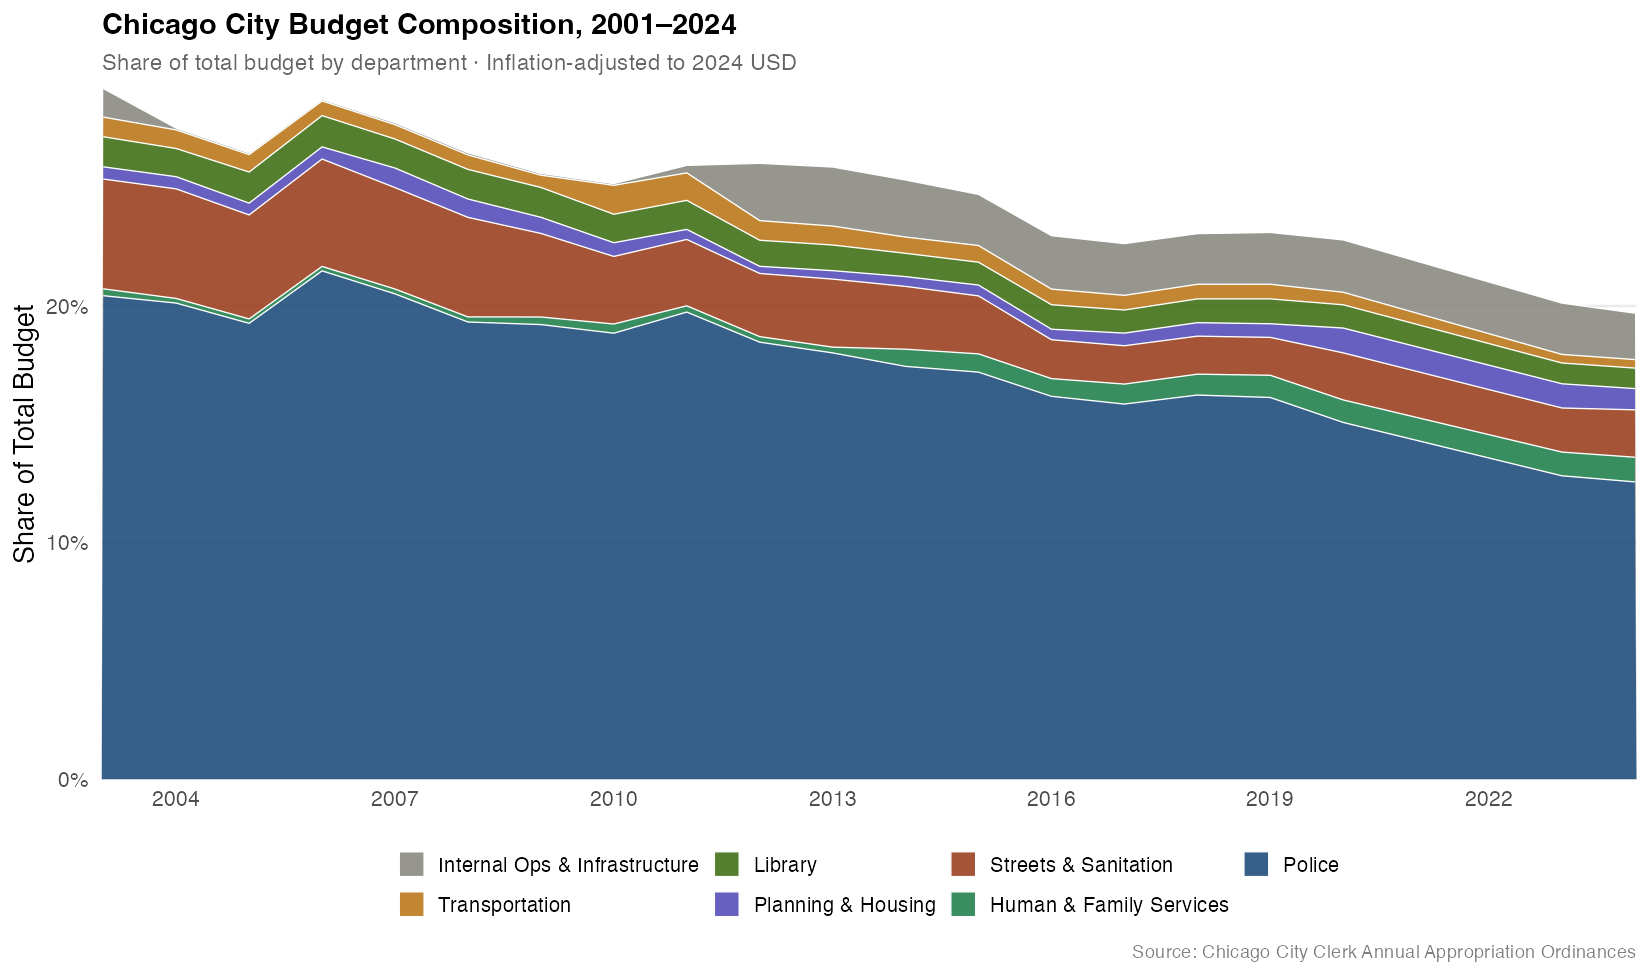
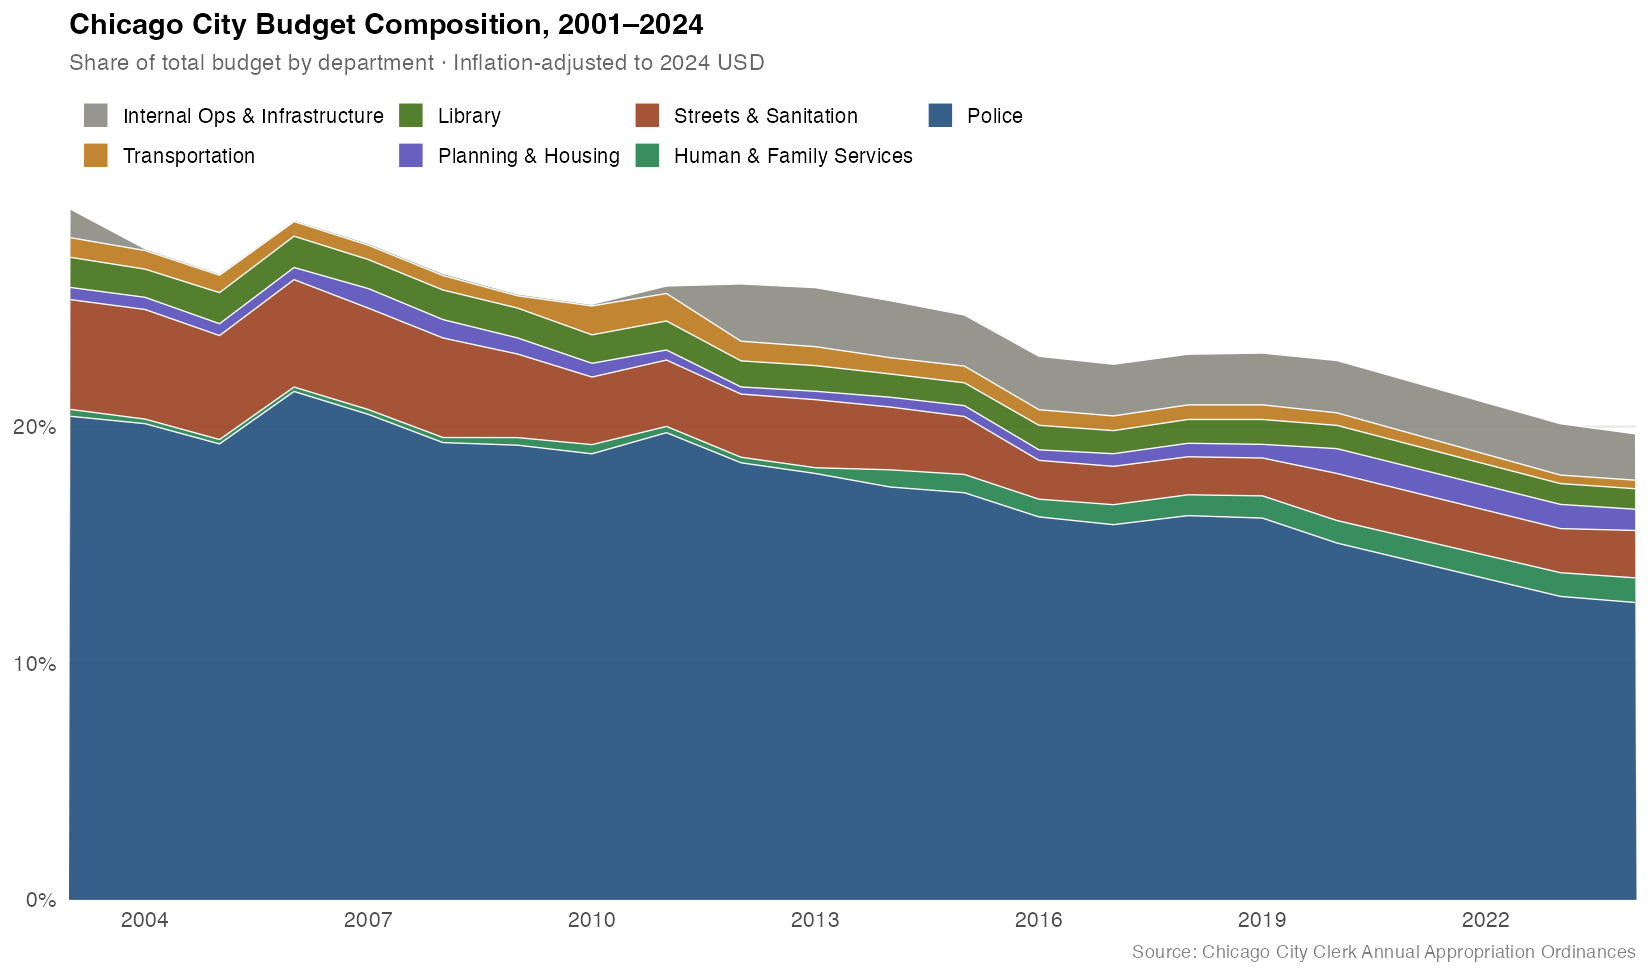
Clean up chart labels, move legends to top, add COVID annotation

diff --git a/assets/per_capita_interactive.html b/assets/per_capita_interactive.html
@@ -1892,9 +1892,9 @@ display: none;
 </head>
 <body style="background-color: white;">
 <div id="htmlwidget_container">
-  <div class="plotly html-widget html-fill-item" id="htmlwidget-2aec6505d727d4c65946" style="width:100%;height:400px;"></div>
+  <div class="plotly html-widget html-fill-item" id="htmlwidget-065df483d957e599c200" style="width:100%;height:400px;"></div>
 </div>
-<script type="application/json" data-for="htmlwidget-2aec6505d727d4c65946">{"x":{"visdat":{"15974c55eb1d":["function () ","plotlyVisDat"],"15971cbee412":["function () ","data"],"1597386f687c":["function () ","data"],"15971a34c1d6":["function () ","data"],"15977da1d60a":["function () ","data"],"1597beb6af6":["function () ","data"],"1597cbb4297":["function () ","data"],"15975a10ce08":["function () ","data"]},"cur_data":"15975a10ce08","attrs":{"15971cbee412":{"alpha_stroke":1,"sizes":[10,100],"spans":[1,20],"x":{},"y":{},"type":"scatter","mode":"lines+markers","name":"Police","text":{},"hoverinfo":"text","line":{"color":"#1a4a7a","width":2.2000000000000002},"marker":{"color":"#1a4a7a","size":5},"legendgroup":"Police","inherit":true},"1597386f687c":{"alpha_stroke":1,"sizes":[10,100],"spans":[1,20],"x":{},"y":{},"type":"scatter","mode":"lines+markers","name":"Streets & Sanitation","text":{},"hoverinfo":"text","line":{"color":"#993c1d","width":2.2000000000000002},"marker":{"color":"#993c1d","size":5},"legendgroup":"Streets & Sanitation","inherit":true},"15971a34c1d6":{"alpha_stroke":1,"sizes":[10,100],"spans":[1,20],"x":{},"y":{},"type":"scatter","mode":"lines+markers","name":"Internal Ops & Infrastructure","text":{},"hoverinfo":"text","line":{"color":"#888780","width":2.2000000000000002},"marker":{"color":"#888780","size":5},"legendgroup":"Internal Ops & Infrastructure","inherit":true},"15977da1d60a":{"alpha_stroke":1,"sizes":[10,100],"spans":[1,20],"x":{},"y":{},"type":"scatter","mode":"lines+markers","name":"Human & Family Services","text":{},"hoverinfo":"text","line":{"color":"#1e7e4a","width":2.2000000000000002},"marker":{"color":"#1e7e4a","size":5},"legendgroup":"Human & Family Services","inherit":true},"1597beb6af6":{"alpha_stroke":1,"sizes":[10,100],"spans":[1,20],"x":{},"y":{},"type":"scatter","mode":"lines+markers","name":"Transportation","text":{},"hoverinfo":"text","line":{"color":"#ba7517","width":2.2000000000000002},"marker":{"color":"#ba7517","size":5},"legendgroup":"Transportation","inherit":true},"1597cbb4297":{"alpha_stroke":1,"sizes":[10,100],"spans":[1,20],"x":{},"y":{},"type":"scatter","mode":"lines+markers","name":"Planning & Housing","text":{},"hoverinfo":"text","line":{"color":"#534ab7","width":2.2000000000000002},"marker":{"color":"#534ab7","size":5},"legendgroup":"Planning & Housing","inherit":true},"15975a10ce08":{"alpha_stroke":1,"sizes":[10,100],"spans":[1,20],"x":{},"y":{},"type":"scatter","mode":"lines+markers","name":"Library","text":{},"hoverinfo":"text","line":{"color":"#3b6d11","width":2.2000000000000002},"marker":{"color":"#3b6d11","size":5},"legendgroup":"Library","inherit":true}},"layout":{"margin":{"b":100,"l":70,"t":90,"r":20},"title":{"text":"<b>Per Capita City Spending by Department, 2001–2024<\/b><br><i style='font-size:13px;color:#5a6a7a'>Inflation-adjusted to 2024 USD · Click a department to isolate it; double-click to reset<\/i>","font":{"family":"Arial","size":16,"color":"#000000"},"x":0,"xanchor":"left","pad":{"l":10}},"xaxis":{"domain":[0,1],"automargin":true,"title":"","tickvals":[2001,2004,2007,2010,2013,2016,2019,2022],"tickformat":"d","tickfont":{"family":"Arial","size":12,"color":"#000000"},"showgrid":false,"zeroline":false,"linecolor":"#d0dce8","linewidth":1},"yaxis":{"domain":[0,1],"automargin":true,"title":{"text":"Per capita spending (2024 USD)","font":{"family":"Arial","size":12,"color":"#000000"}},"tickprefix":"$","tickformat":",","tickfont":{"family":"Arial","size":12,"color":"#000000"},"showgrid":true,"gridcolor":"#e8e8e8","gridwidth":1,"zeroline":false},"legend":{"orientation":"h","x":0,"xanchor":"left","y":-0.17999999999999999,"font":{"family":"Arial","size":12,"color":"#000000"},"bgcolor":"rgba(0,0,0,0)","borderwidth":0},"hovermode":"closest","plot_bgcolor":"#ffffff","paper_bgcolor":"#ffffff","annotations":[{"text":"Source: Chicago City Clerk Annual Appropriation Ordinances","showarrow":false,"xref":"paper","yref":"paper","x":1,"y":-0.28000000000000003,"xanchor":"right","font":{"family":"Arial","size":11,"color":"#5a6a7a"}}],"showlegend":true},"source":"A","config":{"modeBarButtonsToAdd":["hoverclosest","hovercompare"],"showSendToCloud":false,"displayModeBar":true,"modeBarButtonsToRemove":["select2d","lasso2d","autoScale2d","hoverClosestCartesian","hoverCompareCartesian"],"displaylogo":false,"responsive":true},"data":[{"x":[2003,2004,2005,2006,2007,2008,2009,2010,2011,2012,2013,2014,2015,2016,2017,2018,2019,2020,2023,2024],"y":[437.7086416240013,434.30655854733499,424.51667996829877,462.45773054158451,464.11140771766128,442.51194620313157,427.28249164533122,453.58327142381273,479.00351295452776,455.42428404726019,459.85726512796691,474.46168445790801,505.12256318193783,511.84037723223776,528.16534889867773,558.73606091379565,574.31003849724516,595.6617124018893,642.13530914776538,652.83774987295703],"type":"scatter","mode":"lines+markers","name":"Police","text":["<b>Police<\/b><br>Year: 2003<br>Per capita: $438","<b>Police<\/b><br>Year: 2004<br>Per capita: $434","<b>Police<\/b><br>Year: 2005<br>Per capita: $425","<b>Police<\/b><br>Year: 2006<br>Per capita: $462","<b>Police<\/b><br>Year: 2007<br>Per capita: $464","<b>Police<\/b><br>Year: 2008<br>Per capita: $443","<b>Police<\/b><br>Year: 2009<br>Per capita: $427","<b>Police<\/b><br>Year: 2010<br>Per capita: $454","<b>Police<\/b><br>Year: 2011<br>Per capita: $479","<b>Police<\/b><br>Year: 2012<br>Per capita: $455","<b>Police<\/b><br>Year: 2013<br>Per capita: $460","<b>Police<\/b><br>Year: 2014<br>Per capita: $474","<b>Police<\/b><br>Year: 2015<br>Per capita: $505","<b>Police<\/b><br>Year: 2016<br>Per capita: $512","<b>Police<\/b><br>Year: 2017<br>Per capita: $528","<b>Police<\/b><br>Year: 2018<br>Per capita: $559","<b>Police<\/b><br>Year: 2019<br>Per capita: $574","<b>Police<\/b><br>Year: 2020<br>Per capita: $596","<b>Police<\/b><br>Year: 2023<br>Per capita: $642","<b>Police<\/b><br>Year: 2024<br>Per capita: $653"],"hoverinfo":["text","text","text","text","text","text","text","text","text","text","text","text","text","text","text","text","text","text","text","text"],"line":{"color":"#1a4a7a","width":2.2000000000000002},"marker":{"color":"#1a4a7a","size":5,"line":{"color":"rgba(31,119,180,1)"}},"legendgroup":"Police","error_y":{"color":"rgba(31,119,180,1)"},"error_x":{"color":"rgba(31,119,180,1)"},"xaxis":"x","yaxis":"y","frame":null},{"x":[2003,2004,2005,2006,2007,2008,2009,2010,2011,2012,2013,2014,2015,2016,2017,2018,2019,2020,2023,2024],"y":[99.360131299941813,99.942398451245793,96.812035549994107,97.700044637313681,96.97186195385251,96.327555456719594,78.548994527981392,68.722825919814909,68.049191706472143,65.802773934708583,73.37308264819373,72.158817179062495,71.917289333503888,51.92923087729416,53.96640924850044,55.286130611074405,56.974216385624281,78.548750941236264,93.28986201300529,104.10002537105163],"type":"scatter","mode":"lines+markers","name":"Streets & Sanitation","text":["<b>Streets & Sanitation<\/b><br>Year: 2003<br>Per capita: $99","<b>Streets & Sanitation<\/b><br>Year: 2004<br>Per capita: $100","<b>Streets & Sanitation<\/b><br>Year: 2005<br>Per capita: $97","<b>Streets & Sanitation<\/b><br>Year: 2006<br>Per capita: $98","<b>Streets & Sanitation<\/b><br>Year: 2007<br>Per capita: $97","<b>Streets & Sanitation<\/b><br>Year: 2008<br>Per capita: $96","<b>Streets & Sanitation<\/b><br>Year: 2009<br>Per capita: $79","<b>Streets & Sanitation<\/b><br>Year: 2010<br>Per capita: $69","<b>Streets & Sanitation<\/b><br>Year: 2011<br>Per capita: $68","<b>Streets & Sanitation<\/b><br>Year: 2012<br>Per capita: $66","<b>Streets & Sanitation<\/b><br>Year: 2013<br>Per capita: $73","<b>Streets & Sanitation<\/b><br>Year: 2014<br>Per capita: $72","<b>Streets & Sanitation<\/b><br>Year: 2015<br>Per capita: $72","<b>Streets & Sanitation<\/b><br>Year: 2016<br>Per capita: $52","<b>Streets & Sanitation<\/b><br>Year: 2017<br>Per capita: $54","<b>Streets & Sanitation<\/b><br>Year: 2018<br>Per capita: $55","<b>Streets & Sanitation<\/b><br>Year: 2019<br>Per capita: $57","<b>Streets & Sanitation<\/b><br>Year: 2020<br>Per capita: $79","<b>Streets & Sanitation<\/b><br>Year: 2023<br>Per capita: $93","<b>Streets & Sanitation<\/b><br>Year: 2024<br>Per capita: $104"],"hoverinfo":["text","text","text","text","text","text","text","text","text","text","text","text","text","text","text","text","text","text","text","text"],"line":{"color":"#993c1d","width":2.2000000000000002},"marker":{"color":"#993c1d","size":5,"line":{"color":"rgba(255,127,14,1)"}},"legendgroup":"Streets & Sanitation","error_y":{"color":"rgba(255,127,14,1)"},"error_x":{"color":"rgba(255,127,14,1)"},"xaxis":"x","yaxis":"y","frame":null},{"x":[2000,2001,2002,2003,2004,2005,2006,2007,2008,2009,2010,2011,2012,2013,2014,2015,2016,2017,2018,2019,2020,2021,2022,2023,2024],"y":[0,0,0,25.88772121587261,1.6134922604101809,1.5629119828912674,1.4188064177568556,1.8294405208213129,2.0574825666770598,1.7158868858888714,1.7034138113872266,7.6988134635921606,59.712907997660274,63.680784349208416,65.556185757676943,63.427383961219689,71.427808123210468,72.798671580901924,73.680502648200957,77.938221405745225,87.370684331565684,0,0,108.63503066669568,101.87744055630159],"type":"scatter","mode":"lines+markers","name":"Internal Ops & Infrastructure","text":["<b>Internal Ops & Infrastructure<\/b><br>Year: 2000<br>Per capita: $0","<b>Internal Ops & Infrastructure<\/b><br>Year: 2001<br>Per capita: $0","<b>Internal Ops & Infrastructure<\/b><br>Year: 2002<br>Per capita: $0","<b>Internal Ops & Infrastructure<\/b><br>Year: 2003<br>Per capita: $26","<b>Internal Ops & Infrastructure<\/b><br>Year: 2004<br>Per capita: $2","<b>Internal Ops & Infrastructure<\/b><br>Year: 2005<br>Per capita: $2","<b>Internal Ops & Infrastructure<\/b><br>Year: 2006<br>Per capita: $1","<b>Internal Ops & Infrastructure<\/b><br>Year: 2007<br>Per capita: $2","<b>Internal Ops & Infrastructure<\/b><br>Year: 2008<br>Per capita: $2","<b>Internal Ops & Infrastructure<\/b><br>Year: 2009<br>Per capita: $2","<b>Internal Ops & Infrastructure<\/b><br>Year: 2010<br>Per capita: $2","<b>Internal Ops & Infrastructure<\/b><br>Year: 2011<br>Per capita: $8","<b>Internal Ops & Infrastructure<\/b><br>Year: 2012<br>Per capita: $60","<b>Internal Ops & Infrastructure<\/b><br>Year: 2013<br>Per capita: $64","<b>Internal Ops & Infrastructure<\/b><br>Year: 2014<br>Per capita: $66","<b>Internal Ops & Infrastructure<\/b><br>Year: 2015<br>Per capita: $63","<b>Internal Ops & Infrastructure<\/b><br>Year: 2016<br>Per capita: $71","<b>Internal Ops & Infrastructure<\/b><br>Year: 2017<br>Per capita: $73","<b>Internal Ops & Infrastructure<\/b><br>Year: 2018<br>Per capita: $74","<b>Internal Ops & Infrastructure<\/b><br>Year: 2019<br>Per capita: $78","<b>Internal Ops & Infrastructure<\/b><br>Year: 2020<br>Per capita: $87","<b>Internal Ops & Infrastructure<\/b><br>Year: 2021<br>Per capita: $0","<b>Internal Ops & Infrastructure<\/b><br>Year: 2022<br>Per capita: $0","<b>Internal Ops & Infrastructure<\/b><br>Year: 2023<br>Per capita: $109","<b>Internal Ops & Infrastructure<\/b><br>Year: 2024<br>Per capita: $102"],"hoverinfo":["text","text","text","text","text","text","text","text","text","text","text","text","text","text","text","text","text","text","text","text","text","text","text","text","text"],"line":{"color":"#888780","width":2.2000000000000002},"marker":{"color":"#888780","size":5,"line":{"color":"rgba(44,160,44,1)"}},"legendgroup":"Internal Ops & Infrastructure","error_y":{"color":"rgba(44,160,44,1)"},"error_x":{"color":"rgba(44,160,44,1)"},"xaxis":"x","yaxis":"y","frame":null},{"x":[2000,2001,2002,2003,2004,2005,2006,2007,2008,2009,2010,2011,2012,2013,2014,2015,2016,2017,2018,2019,2020,2021,2022,2023,2024],"y":[0,0,0,6.2277087374980082,4.199909106504788,4.0937944562293591,4.0359274948344241,4.6150637712639062,4.9356992487859683,7.1219290496901948,9.328497782928979,6.419640703433128,5.7839533321251606,6.2204220334862326,19.744703492167041,22.682851593571314,23.66542783363186,28.137796148077904,30.31679741373576,33.434382260457568,37.597785163640388,0,0,50.205875575258574,54.095779473017735],"type":"scatter","mode":"lines+markers","name":"Human & Family Services","text":["<b>Human & Family Services<\/b><br>Year: 2000<br>Per capita: $0","<b>Human & Family Services<\/b><br>Year: 2001<br>Per capita: $0","<b>Human & Family Services<\/b><br>Year: 2002<br>Per capita: $0","<b>Human & Family Services<\/b><br>Year: 2003<br>Per capita: $6","<b>Human & Family Services<\/b><br>Year: 2004<br>Per capita: $4","<b>Human & Family Services<\/b><br>Year: 2005<br>Per capita: $4","<b>Human & Family Services<\/b><br>Year: 2006<br>Per capita: $4","<b>Human & Family Services<\/b><br>Year: 2007<br>Per capita: $5","<b>Human & Family Services<\/b><br>Year: 2008<br>Per capita: $5","<b>Human & Family Services<\/b><br>Year: 2009<br>Per capita: $7","<b>Human & Family Services<\/b><br>Year: 2010<br>Per capita: $9","<b>Human & Family Services<\/b><br>Year: 2011<br>Per capita: $6","<b>Human & Family Services<\/b><br>Year: 2012<br>Per capita: $6","<b>Human & Family Services<\/b><br>Year: 2013<br>Per capita: $6","<b>Human & Family Services<\/b><br>Year: 2014<br>Per capita: $20","<b>Human & Family Services<\/b><br>Year: 2015<br>Per capita: $23","<b>Human & Family Services<\/b><br>Year: 2016<br>Per capita: $24","<b>Human & Family Services<\/b><br>Year: 2017<br>Per capita: $28","<b>Human & Family Services<\/b><br>Year: 2018<br>Per capita: $30","<b>Human & Family Services<\/b><br>Year: 2019<br>Per capita: $33","<b>Human & Family Services<\/b><br>Year: 2020<br>Per capita: $38","<b>Human & Family Services<\/b><br>Year: 2021<br>Per capita: $0","<b>Human & Family Services<\/b><br>Year: 2022<br>Per capita: $0","<b>Human & Family Services<\/b><br>Year: 2023<br>Per capita: $50","<b>Human & Family Services<\/b><br>Year: 2024<br>Per capita: $54"],"hoverinfo":["text","text","text","text","text","text","text","text","text","text","text","text","text","text","text","text","text","text","text","text","text","text","text","text","text"],"line":{"color":"#1e7e4a","width":2.2000000000000002},"marker":{"color":"#1e7e4a","size":5,"line":{"color":"rgba(214,39,40,1)"}},"legendgroup":"Human & Family Services","error_y":{"color":"rgba(214,39,40,1)"},"error_x":{"color":"rgba(214,39,40,1)"},"xaxis":"x","yaxis":"y","frame":null},{"x":[2003,2004,2005,2006,2007,2008,2009,2010,2011,2012,2013,2014,2015,2016,2017,2018,2019,2020,2023,2024],"y":[17.779872713293042,16.98021927151111,16.207598527364304,13.323235483696388,13.717310563602332,14.021849124481729,11.550628976931081,29.38840742528895,28.177652068265832,20.483541595760197,20.442017015663961,18.687061486397884,20.717555896662301,20.872622751126169,20.651686274278823,21.212184976430052,21.966735202725804,20.95388415620808,18.131854030882124,18.69895220559259],"type":"scatter","mode":"lines+markers","name":"Transportation","text":["<b>Transportation<\/b><br>Year: 2003<br>Per capita: $18","<b>Transportation<\/b><br>Year: 2004<br>Per capita: $17","<b>Transportation<\/b><br>Year: 2005<br>Per capita: $16","<b>Transportation<\/b><br>Year: 2006<br>Per capita: $13","<b>Transportation<\/b><br>Year: 2007<br>Per capita: $14","<b>Transportation<\/b><br>Year: 2008<br>Per capita: $14","<b>Transportation<\/b><br>Year: 2009<br>Per capita: $12","<b>Transportation<\/b><br>Year: 2010<br>Per capita: $29","<b>Transportation<\/b><br>Year: 2011<br>Per capita: $28","<b>Transportation<\/b><br>Year: 2012<br>Per capita: $20","<b>Transportation<\/b><br>Year: 2013<br>Per capita: $20","<b>Transportation<\/b><br>Year: 2014<br>Per capita: $19","<b>Transportation<\/b><br>Year: 2015<br>Per capita: $21","<b>Transportation<\/b><br>Year: 2016<br>Per capita: $21","<b>Transportation<\/b><br>Year: 2017<br>Per capita: $21","<b>Transportation<\/b><br>Year: 2018<br>Per capita: $21","<b>Transportation<\/b><br>Year: 2019<br>Per capita: $22","<b>Transportation<\/b><br>Year: 2020<br>Per capita: $21","<b>Transportation<\/b><br>Year: 2023<br>Per capita: $18","<b>Transportation<\/b><br>Year: 2024<br>Per capita: $19"],"hoverinfo":["text","text","text","text","text","text","text","text","text","text","text","text","text","text","text","text","text","text","text","text"],"line":{"color":"#ba7517","width":2.2000000000000002},"marker":{"color":"#ba7517","size":5,"line":{"color":"rgba(148,103,189,1)"}},"legendgroup":"Transportation","error_y":{"color":"rgba(148,103,189,1)"},"error_x":{"color":"rgba(148,103,189,1)"},"xaxis":"x","yaxis":"y","frame":null},{"x":[2000,2001,2002,2003,2004,2005,2006,2007,2008,2009,2010,2011,2012,2013,2014,2015,2016,2017,2018,2019,2020,2021,2022,2023,2024],"y":[0,0,0,11.039835664786127,11.117853421922478,10.996054722338744,11.027948623484663,18.704136046347081,17.764676550427712,15.144359484750405,13.965037084574766,10.314392807419537,7.4432343073856178,9.0962171025408747,11.263288516375399,13.451594453486713,14.081793664613036,17.778510798236823,19.619393729757856,20.515556844035117,41.457402231585633,0,0,51.215474915310978,46.642117672138454],"type":"scatter","mode":"lines+markers","name":"Planning & Housing","text":["<b>Planning & Housing<\/b><br>Year: 2000<br>Per capita: $0","<b>Planning & Housing<\/b><br>Year: 2001<br>Per capita: $0","<b>Planning & Housing<\/b><br>Year: 2002<br>Per capita: $0","<b>Planning & Housing<\/b><br>Year: 2003<br>Per capita: $11","<b>Planning & Housing<\/b><br>Year: 2004<br>Per capita: $11","<b>Planning & Housing<\/b><br>Year: 2005<br>Per capita: $11","<b>Planning & Housing<\/b><br>Year: 2006<br>Per capita: $11","<b>Planning & Housing<\/b><br>Year: 2007<br>Per capita: $19","<b>Planning & Housing<\/b><br>Year: 2008<br>Per capita: $18","<b>Planning & Housing<\/b><br>Year: 2009<br>Per capita: $15","<b>Planning & Housing<\/b><br>Year: 2010<br>Per capita: $14","<b>Planning & Housing<\/b><br>Year: 2011<br>Per capita: $10","<b>Planning & Housing<\/b><br>Year: 2012<br>Per capita: $7","<b>Planning & Housing<\/b><br>Year: 2013<br>Per capita: $9","<b>Planning & Housing<\/b><br>Year: 2014<br>Per capita: $11","<b>Planning & Housing<\/b><br>Year: 2015<br>Per capita: $13","<b>Planning & Housing<\/b><br>Year: 2016<br>Per capita: $14","<b>Planning & Housing<\/b><br>Year: 2017<br>Per capita: $18","<b>Planning & Housing<\/b><br>Year: 2018<br>Per capita: $20","<b>Planning & Housing<\/b><br>Year: 2019<br>Per capita: $21","<b>Planning & Housing<\/b><br>Year: 2020<br>Per capita: $41","<b>Planning & Housing<\/b><br>Year: 2021<br>Per capita: $0","<b>Planning & Housing<\/b><br>Year: 2022<br>Per capita: $0","<b>Planning & Housing<\/b><br>Year: 2023<br>Per capita: $51","<b>Planning & Housing<\/b><br>Year: 2024<br>Per capita: $47"],"hoverinfo":["text","text","text","text","text","text","text","text","text","text","text","text","text","text","text","text","text","text","text","text","text","text","text","text","text"],"line":{"color":"#534ab7","width":2.2000000000000002},"marker":{"color":"#534ab7","size":5,"line":{"color":"rgba(140,86,75,1)"}},"legendgroup":"Planning & Housing","error_y":{"color":"rgba(140,86,75,1)"},"error_x":{"color":"rgba(140,86,75,1)"},"xaxis":"x","yaxis":"y","frame":null},{"x":[2000,2001,2002,2003,2004,2005,2006,2007,2008,2009,2010,2011,2012,2013,2014,2015,2016,2017,2018,2019,2020,2021,2022,2023,2024],"y":[0,0,0,27.25514330724274,25.704617400745004,28.94833373386075,28.467555156555598,27.740144619646525,28.638832745745635,28.031366404934989,28.94350072309085,29.740748757998805,27.147161678534751,27.663116556672843,26.780662112608439,28.352400024112718,32.730361390997665,32.526614397698182,34.604078066865043,37.43325900654019,38.801195970853357,0,0,43.962144589473112,44.996275034209638],"type":"scatter","mode":"lines+markers","name":"Library","text":["<b>Library<\/b><br>Year: 2000<br>Per capita: $0","<b>Library<\/b><br>Year: 2001<br>Per capita: $0","<b>Library<\/b><br>Year: 2002<br>Per capita: $0","<b>Library<\/b><br>Year: 2003<br>Per capita: $27","<b>Library<\/b><br>Year: 2004<br>Per capita: $26","<b>Library<\/b><br>Year: 2005<br>Per capita: $29","<b>Library<\/b><br>Year: 2006<br>Per capita: $28","<b>Library<\/b><br>Year: 2007<br>Per capita: $28","<b>Library<\/b><br>Year: 2008<br>Per capita: $29","<b>Library<\/b><br>Year: 2009<br>Per capita: $28","<b>Library<\/b><br>Year: 2010<br>Per capita: $29","<b>Library<\/b><br>Year: 2011<br>Per capita: $30","<b>Library<\/b><br>Year: 2012<br>Per capita: $27","<b>Library<\/b><br>Year: 2013<br>Per capita: $28","<b>Library<\/b><br>Year: 2014<br>Per capita: $27","<b>Library<\/b><br>Year: 2015<br>Per capita: $28","<b>Library<\/b><br>Year: 2016<br>Per capita: $33","<b>Library<\/b><br>Year: 2017<br>Per capita: $33","<b>Library<\/b><br>Year: 2018<br>Per capita: $35","<b>Library<\/b><br>Year: 2019<br>Per capita: $37","<b>Library<\/b><br>Year: 2020<br>Per capita: $39","<b>Library<\/b><br>Year: 2021<br>Per capita: $0","<b>Library<\/b><br>Year: 2022<br>Per capita: $0","<b>Library<\/b><br>Year: 2023<br>Per capita: $44","<b>Library<\/b><br>Year: 2024<br>Per capita: $45"],"hoverinfo":["text","text","text","text","text","text","text","text","text","text","text","text","text","text","text","text","text","text","text","text","text","text","text","text","text"],"line":{"color":"#3b6d11","width":2.2000000000000002},"marker":{"color":"#3b6d11","size":5,"line":{"color":"rgba(227,119,194,1)"}},"legendgroup":"Library","error_y":{"color":"rgba(227,119,194,1)"},"error_x":{"color":"rgba(227,119,194,1)"},"xaxis":"x","yaxis":"y","frame":null}],"highlight":{"on":"plotly_click","persistent":false,"dynamic":false,"selectize":false,"opacityDim":0.20000000000000001,"selected":{"opacity":1},"debounce":0},"shinyEvents":["plotly_hover","plotly_click","plotly_selected","plotly_relayout","plotly_brushed","plotly_brushing","plotly_clickannotation","plotly_doubleclick","plotly_deselect","plotly_afterplot","plotly_sunburstclick"],"base_url":"https://plot.ly"},"evals":[],"jsHooks":[]}</script>
-<script type="application/htmlwidget-sizing" data-for="htmlwidget-2aec6505d727d4c65946">{"viewer":{"width":"100%","height":400,"padding":0,"fill":true},"browser":{"width":"100%","height":400,"padding":0,"fill":true}}</script>
+<script type="application/json" data-for="htmlwidget-065df483d957e599c200">{"x":{"visdat":{"15977193da65":["function () ","plotlyVisDat"],"159721e75724":["function () ","data"],"15975b0a0ddf":["function () ","data"],"15977114da2a":["function () ","data"],"1597fff3566":["function () ","data"],"15973c0ac3be":["function () ","data"],"159766b90dbd":["function () ","data"],"15977f3527fa":["function () ","data"]},"cur_data":"15977f3527fa","attrs":{"159721e75724":{"alpha_stroke":1,"sizes":[10,100],"spans":[1,20],"x":{},"y":{},"type":"scatter","mode":"lines+markers","name":"Police","text":{},"hoverinfo":"text","line":{"color":"#1a4a7a","width":2.2000000000000002},"marker":{"color":"#1a4a7a","size":5},"legendgroup":"Police","inherit":true},"15975b0a0ddf":{"alpha_stroke":1,"sizes":[10,100],"spans":[1,20],"x":{},"y":{},"type":"scatter","mode":"lines+markers","name":"Streets & Sanitation","text":{},"hoverinfo":"text","line":{"color":"#993c1d","width":2.2000000000000002},"marker":{"color":"#993c1d","size":5},"legendgroup":"Streets & Sanitation","inherit":true},"15977114da2a":{"alpha_stroke":1,"sizes":[10,100],"spans":[1,20],"x":{},"y":{},"type":"scatter","mode":"lines+markers","name":"Internal Ops & Infrastructure","text":{},"hoverinfo":"text","line":{"color":"#888780","width":2.2000000000000002},"marker":{"color":"#888780","size":5},"legendgroup":"Internal Ops & Infrastructure","inherit":true},"1597fff3566":{"alpha_stroke":1,"sizes":[10,100],"spans":[1,20],"x":{},"y":{},"type":"scatter","mode":"lines+markers","name":"Human & Family Services","text":{},"hoverinfo":"text","line":{"color":"#1e7e4a","width":2.2000000000000002},"marker":{"color":"#1e7e4a","size":5},"legendgroup":"Human & Family Services","inherit":true},"15973c0ac3be":{"alpha_stroke":1,"sizes":[10,100],"spans":[1,20],"x":{},"y":{},"type":"scatter","mode":"lines+markers","name":"Transportation","text":{},"hoverinfo":"text","line":{"color":"#ba7517","width":2.2000000000000002},"marker":{"color":"#ba7517","size":5},"legendgroup":"Transportation","inherit":true},"159766b90dbd":{"alpha_stroke":1,"sizes":[10,100],"spans":[1,20],"x":{},"y":{},"type":"scatter","mode":"lines+markers","name":"Planning & Housing","text":{},"hoverinfo":"text","line":{"color":"#534ab7","width":2.2000000000000002},"marker":{"color":"#534ab7","size":5},"legendgroup":"Planning & Housing","inherit":true},"15977f3527fa":{"alpha_stroke":1,"sizes":[10,100],"spans":[1,20],"x":{},"y":{},"type":"scatter","mode":"lines+markers","name":"Library","text":{},"hoverinfo":"text","line":{"color":"#3b6d11","width":2.2000000000000002},"marker":{"color":"#3b6d11","size":5},"legendgroup":"Library","inherit":true}},"layout":{"margin":{"b":60,"l":60,"t":120,"r":20},"title":{"text":"<b>Per Capita City Spending by Department, 2001–2024<\/b><br><i style='font-size:13px;color:#5a6a7a'>Inflation-adjusted to 2024 USD · Click a department to isolate it; double-click to reset<\/i>","font":{"family":"Arial","size":16,"color":"#000000"},"x":0,"xanchor":"left","pad":{"l":10}},"xaxis":{"domain":[0,1],"automargin":true,"title":"","tickvals":[2001,2004,2007,2010,2013,2016,2019,2022],"tickformat":"d","tickfont":{"family":"Arial","size":12,"color":"#000000"},"showgrid":false,"zeroline":false,"linecolor":"#d0dce8","linewidth":1},"yaxis":{"domain":[0,1],"automargin":true,"title":"","tickprefix":"$","tickformat":",","tickfont":{"family":"Arial","size":12,"color":"#000000"},"showgrid":true,"gridcolor":"#e8e8e8","gridwidth":1,"zeroline":false},"legend":{"orientation":"h","x":0,"xanchor":"left","y":1.1200000000000001,"yanchor":"bottom","font":{"family":"Arial","size":12,"color":"#000000"},"bgcolor":"rgba(0,0,0,0)","borderwidth":0},"hovermode":"closest","plot_bgcolor":"#ffffff","paper_bgcolor":"#ffffff","shapes":[{"type":"rect","xref":"x","yref":"paper","x0":2019.5,"x1":2021.5,"y0":0,"y1":1,"fillcolor":"rgba(200,200,200,0.18)","line":{"width":0}}],"annotations":[{"text":"COVID-19","showarrow":false,"xref":"x","yref":"paper","x":2020.5,"y":1.04,"xanchor":"center","font":{"family":"Arial","size":11,"color":"#888888"}},{"text":"Source: Chicago City Clerk Annual Appropriation Ordinances","showarrow":false,"xref":"paper","yref":"paper","x":1,"y":-0.12,"xanchor":"right","font":{"family":"Arial","size":11,"color":"#5a6a7a"}}],"showlegend":true},"source":"A","config":{"modeBarButtonsToAdd":["hoverclosest","hovercompare"],"showSendToCloud":false,"displayModeBar":true,"modeBarButtonsToRemove":["select2d","lasso2d","autoScale2d","hoverClosestCartesian","hoverCompareCartesian"],"displaylogo":false,"responsive":true},"data":[{"x":[2003,2004,2005,2006,2007,2008,2009,2010,2011,2012,2013,2014,2015,2016,2017,2018,2019,2020,2023,2024],"y":[437.7086416240013,434.30655854733499,424.51667996829877,462.45773054158451,464.11140771766128,442.51194620313157,427.28249164533122,453.58327142381273,479.00351295452776,455.42428404726019,459.85726512796691,474.46168445790801,505.12256318193783,511.84037723223776,528.16534889867773,558.73606091379565,574.31003849724516,595.6617124018893,642.13530914776538,652.83774987295703],"type":"scatter","mode":"lines+markers","name":"Police","text":["<b>Police<\/b><br>Year: 2003<br>Per capita: $438","<b>Police<\/b><br>Year: 2004<br>Per capita: $434","<b>Police<\/b><br>Year: 2005<br>Per capita: $425","<b>Police<\/b><br>Year: 2006<br>Per capita: $462","<b>Police<\/b><br>Year: 2007<br>Per capita: $464","<b>Police<\/b><br>Year: 2008<br>Per capita: $443","<b>Police<\/b><br>Year: 2009<br>Per capita: $427","<b>Police<\/b><br>Year: 2010<br>Per capita: $454","<b>Police<\/b><br>Year: 2011<br>Per capita: $479","<b>Police<\/b><br>Year: 2012<br>Per capita: $455","<b>Police<\/b><br>Year: 2013<br>Per capita: $460","<b>Police<\/b><br>Year: 2014<br>Per capita: $474","<b>Police<\/b><br>Year: 2015<br>Per capita: $505","<b>Police<\/b><br>Year: 2016<br>Per capita: $512","<b>Police<\/b><br>Year: 2017<br>Per capita: $528","<b>Police<\/b><br>Year: 2018<br>Per capita: $559","<b>Police<\/b><br>Year: 2019<br>Per capita: $574","<b>Police<\/b><br>Year: 2020<br>Per capita: $596","<b>Police<\/b><br>Year: 2023<br>Per capita: $642","<b>Police<\/b><br>Year: 2024<br>Per capita: $653"],"hoverinfo":["text","text","text","text","text","text","text","text","text","text","text","text","text","text","text","text","text","text","text","text"],"line":{"color":"#1a4a7a","width":2.2000000000000002},"marker":{"color":"#1a4a7a","size":5,"line":{"color":"rgba(31,119,180,1)"}},"legendgroup":"Police","error_y":{"color":"rgba(31,119,180,1)"},"error_x":{"color":"rgba(31,119,180,1)"},"xaxis":"x","yaxis":"y","frame":null},{"x":[2003,2004,2005,2006,2007,2008,2009,2010,2011,2012,2013,2014,2015,2016,2017,2018,2019,2020,2023,2024],"y":[99.360131299941813,99.942398451245793,96.812035549994107,97.700044637313681,96.97186195385251,96.327555456719594,78.548994527981392,68.722825919814909,68.049191706472143,65.802773934708583,73.37308264819373,72.158817179062495,71.917289333503888,51.92923087729416,53.96640924850044,55.286130611074405,56.974216385624281,78.548750941236264,93.28986201300529,104.10002537105163],"type":"scatter","mode":"lines+markers","name":"Streets & Sanitation","text":["<b>Streets & Sanitation<\/b><br>Year: 2003<br>Per capita: $99","<b>Streets & Sanitation<\/b><br>Year: 2004<br>Per capita: $100","<b>Streets & Sanitation<\/b><br>Year: 2005<br>Per capita: $97","<b>Streets & Sanitation<\/b><br>Year: 2006<br>Per capita: $98","<b>Streets & Sanitation<\/b><br>Year: 2007<br>Per capita: $97","<b>Streets & Sanitation<\/b><br>Year: 2008<br>Per capita: $96","<b>Streets & Sanitation<\/b><br>Year: 2009<br>Per capita: $79","<b>Streets & Sanitation<\/b><br>Year: 2010<br>Per capita: $69","<b>Streets & Sanitation<\/b><br>Year: 2011<br>Per capita: $68","<b>Streets & Sanitation<\/b><br>Year: 2012<br>Per capita: $66","<b>Streets & Sanitation<\/b><br>Year: 2013<br>Per capita: $73","<b>Streets & Sanitation<\/b><br>Year: 2014<br>Per capita: $72","<b>Streets & Sanitation<\/b><br>Year: 2015<br>Per capita: $72","<b>Streets & Sanitation<\/b><br>Year: 2016<br>Per capita: $52","<b>Streets & Sanitation<\/b><br>Year: 2017<br>Per capita: $54","<b>Streets & Sanitation<\/b><br>Year: 2018<br>Per capita: $55","<b>Streets & Sanitation<\/b><br>Year: 2019<br>Per capita: $57","<b>Streets & Sanitation<\/b><br>Year: 2020<br>Per capita: $79","<b>Streets & Sanitation<\/b><br>Year: 2023<br>Per capita: $93","<b>Streets & Sanitation<\/b><br>Year: 2024<br>Per capita: $104"],"hoverinfo":["text","text","text","text","text","text","text","text","text","text","text","text","text","text","text","text","text","text","text","text"],"line":{"color":"#993c1d","width":2.2000000000000002},"marker":{"color":"#993c1d","size":5,"line":{"color":"rgba(255,127,14,1)"}},"legendgroup":"Streets & Sanitation","error_y":{"color":"rgba(255,127,14,1)"},"error_x":{"color":"rgba(255,127,14,1)"},"xaxis":"x","yaxis":"y","frame":null},{"x":[2000,2001,2002,2003,2004,2005,2006,2007,2008,2009,2010,2011,2012,2013,2014,2015,2016,2017,2018,2019,2020,2021,2022,2023,2024],"y":[0,0,0,25.88772121587261,1.6134922604101809,1.5629119828912674,1.4188064177568556,1.8294405208213129,2.0574825666770598,1.7158868858888714,1.7034138113872266,7.6988134635921606,59.712907997660274,63.680784349208416,65.556185757676943,63.427383961219689,71.427808123210468,72.798671580901924,73.680502648200957,77.938221405745225,87.370684331565684,0,0,108.63503066669568,101.87744055630159],"type":"scatter","mode":"lines+markers","name":"Internal Ops & Infrastructure","text":["<b>Internal Ops & Infrastructure<\/b><br>Year: 2000<br>Per capita: $0","<b>Internal Ops & Infrastructure<\/b><br>Year: 2001<br>Per capita: $0","<b>Internal Ops & Infrastructure<\/b><br>Year: 2002<br>Per capita: $0","<b>Internal Ops & Infrastructure<\/b><br>Year: 2003<br>Per capita: $26","<b>Internal Ops & Infrastructure<\/b><br>Year: 2004<br>Per capita: $2","<b>Internal Ops & Infrastructure<\/b><br>Year: 2005<br>Per capita: $2","<b>Internal Ops & Infrastructure<\/b><br>Year: 2006<br>Per capita: $1","<b>Internal Ops & Infrastructure<\/b><br>Year: 2007<br>Per capita: $2","<b>Internal Ops & Infrastructure<\/b><br>Year: 2008<br>Per capita: $2","<b>Internal Ops & Infrastructure<\/b><br>Year: 2009<br>Per capita: $2","<b>Internal Ops & Infrastructure<\/b><br>Year: 2010<br>Per capita: $2","<b>Internal Ops & Infrastructure<\/b><br>Year: 2011<br>Per capita: $8","<b>Internal Ops & Infrastructure<\/b><br>Year: 2012<br>Per capita: $60","<b>Internal Ops & Infrastructure<\/b><br>Year: 2013<br>Per capita: $64","<b>Internal Ops & Infrastructure<\/b><br>Year: 2014<br>Per capita: $66","<b>Internal Ops & Infrastructure<\/b><br>Year: 2015<br>Per capita: $63","<b>Internal Ops & Infrastructure<\/b><br>Year: 2016<br>Per capita: $71","<b>Internal Ops & Infrastructure<\/b><br>Year: 2017<br>Per capita: $73","<b>Internal Ops & Infrastructure<\/b><br>Year: 2018<br>Per capita: $74","<b>Internal Ops & Infrastructure<\/b><br>Year: 2019<br>Per capita: $78","<b>Internal Ops & Infrastructure<\/b><br>Year: 2020<br>Per capita: $87","<b>Internal Ops & Infrastructure<\/b><br>Year: 2021<br>Per capita: $0","<b>Internal Ops & Infrastructure<\/b><br>Year: 2022<br>Per capita: $0","<b>Internal Ops & Infrastructure<\/b><br>Year: 2023<br>Per capita: $109","<b>Internal Ops & Infrastructure<\/b><br>Year: 2024<br>Per capita: $102"],"hoverinfo":["text","text","text","text","text","text","text","text","text","text","text","text","text","text","text","text","text","text","text","text","text","text","text","text","text"],"line":{"color":"#888780","width":2.2000000000000002},"marker":{"color":"#888780","size":5,"line":{"color":"rgba(44,160,44,1)"}},"legendgroup":"Internal Ops & Infrastructure","error_y":{"color":"rgba(44,160,44,1)"},"error_x":{"color":"rgba(44,160,44,1)"},"xaxis":"x","yaxis":"y","frame":null},{"x":[2000,2001,2002,2003,2004,2005,2006,2007,2008,2009,2010,2011,2012,2013,2014,2015,2016,2017,2018,2019,2020,2021,2022,2023,2024],"y":[0,0,0,6.2277087374980082,4.199909106504788,4.0937944562293591,4.0359274948344241,4.6150637712639062,4.9356992487859683,7.1219290496901948,9.328497782928979,6.419640703433128,5.7839533321251606,6.2204220334862326,19.744703492167041,22.682851593571314,23.66542783363186,28.137796148077904,30.31679741373576,33.434382260457568,37.597785163640388,0,0,50.205875575258574,54.095779473017735],"type":"scatter","mode":"lines+markers","name":"Human & Family Services","text":["<b>Human & Family Services<\/b><br>Year: 2000<br>Per capita: $0","<b>Human & Family Services<\/b><br>Year: 2001<br>Per capita: $0","<b>Human & Family Services<\/b><br>Year: 2002<br>Per capita: $0","<b>Human & Family Services<\/b><br>Year: 2003<br>Per capita: $6","<b>Human & Family Services<\/b><br>Year: 2004<br>Per capita: $4","<b>Human & Family Services<\/b><br>Year: 2005<br>Per capita: $4","<b>Human & Family Services<\/b><br>Year: 2006<br>Per capita: $4","<b>Human & Family Services<\/b><br>Year: 2007<br>Per capita: $5","<b>Human & Family Services<\/b><br>Year: 2008<br>Per capita: $5","<b>Human & Family Services<\/b><br>Year: 2009<br>Per capita: $7","<b>Human & Family Services<\/b><br>Year: 2010<br>Per capita: $9","<b>Human & Family Services<\/b><br>Year: 2011<br>Per capita: $6","<b>Human & Family Services<\/b><br>Year: 2012<br>Per capita: $6","<b>Human & Family Services<\/b><br>Year: 2013<br>Per capita: $6","<b>Human & Family Services<\/b><br>Year: 2014<br>Per capita: $20","<b>Human & Family Services<\/b><br>Year: 2015<br>Per capita: $23","<b>Human & Family Services<\/b><br>Year: 2016<br>Per capita: $24","<b>Human & Family Services<\/b><br>Year: 2017<br>Per capita: $28","<b>Human & Family Services<\/b><br>Year: 2018<br>Per capita: $30","<b>Human & Family Services<\/b><br>Year: 2019<br>Per capita: $33","<b>Human & Family Services<\/b><br>Year: 2020<br>Per capita: $38","<b>Human & Family Services<\/b><br>Year: 2021<br>Per capita: $0","<b>Human & Family Services<\/b><br>Year: 2022<br>Per capita: $0","<b>Human & Family Services<\/b><br>Year: 2023<br>Per capita: $50","<b>Human & Family Services<\/b><br>Year: 2024<br>Per capita: $54"],"hoverinfo":["text","text","text","text","text","text","text","text","text","text","text","text","text","text","text","text","text","text","text","text","text","text","text","text","text"],"line":{"color":"#1e7e4a","width":2.2000000000000002},"marker":{"color":"#1e7e4a","size":5,"line":{"color":"rgba(214,39,40,1)"}},"legendgroup":"Human & Family Services","error_y":{"color":"rgba(214,39,40,1)"},"error_x":{"color":"rgba(214,39,40,1)"},"xaxis":"x","yaxis":"y","frame":null},{"x":[2003,2004,2005,2006,2007,2008,2009,2010,2011,2012,2013,2014,2015,2016,2017,2018,2019,2020,2023,2024],"y":[17.779872713293042,16.98021927151111,16.207598527364304,13.323235483696388,13.717310563602332,14.021849124481729,11.550628976931081,29.38840742528895,28.177652068265832,20.483541595760197,20.442017015663961,18.687061486397884,20.717555896662301,20.872622751126169,20.651686274278823,21.212184976430052,21.966735202725804,20.95388415620808,18.131854030882124,18.69895220559259],"type":"scatter","mode":"lines+markers","name":"Transportation","text":["<b>Transportation<\/b><br>Year: 2003<br>Per capita: $18","<b>Transportation<\/b><br>Year: 2004<br>Per capita: $17","<b>Transportation<\/b><br>Year: 2005<br>Per capita: $16","<b>Transportation<\/b><br>Year: 2006<br>Per capita: $13","<b>Transportation<\/b><br>Year: 2007<br>Per capita: $14","<b>Transportation<\/b><br>Year: 2008<br>Per capita: $14","<b>Transportation<\/b><br>Year: 2009<br>Per capita: $12","<b>Transportation<\/b><br>Year: 2010<br>Per capita: $29","<b>Transportation<\/b><br>Year: 2011<br>Per capita: $28","<b>Transportation<\/b><br>Year: 2012<br>Per capita: $20","<b>Transportation<\/b><br>Year: 2013<br>Per capita: $20","<b>Transportation<\/b><br>Year: 2014<br>Per capita: $19","<b>Transportation<\/b><br>Year: 2015<br>Per capita: $21","<b>Transportation<\/b><br>Year: 2016<br>Per capita: $21","<b>Transportation<\/b><br>Year: 2017<br>Per capita: $21","<b>Transportation<\/b><br>Year: 2018<br>Per capita: $21","<b>Transportation<\/b><br>Year: 2019<br>Per capita: $22","<b>Transportation<\/b><br>Year: 2020<br>Per capita: $21","<b>Transportation<\/b><br>Year: 2023<br>Per capita: $18","<b>Transportation<\/b><br>Year: 2024<br>Per capita: $19"],"hoverinfo":["text","text","text","text","text","text","text","text","text","text","text","text","text","text","text","text","text","text","text","text"],"line":{"color":"#ba7517","width":2.2000000000000002},"marker":{"color":"#ba7517","size":5,"line":{"color":"rgba(148,103,189,1)"}},"legendgroup":"Transportation","error_y":{"color":"rgba(148,103,189,1)"},"error_x":{"color":"rgba(148,103,189,1)"},"xaxis":"x","yaxis":"y","frame":null},{"x":[2000,2001,2002,2003,2004,2005,2006,2007,2008,2009,2010,2011,2012,2013,2014,2015,2016,2017,2018,2019,2020,2021,2022,2023,2024],"y":[0,0,0,11.039835664786127,11.117853421922478,10.996054722338744,11.027948623484663,18.704136046347081,17.764676550427712,15.144359484750405,13.965037084574766,10.314392807419537,7.4432343073856178,9.0962171025408747,11.263288516375399,13.451594453486713,14.081793664613036,17.778510798236823,19.619393729757856,20.515556844035117,41.457402231585633,0,0,51.215474915310978,46.642117672138454],"type":"scatter","mode":"lines+markers","name":"Planning & Housing","text":["<b>Planning & Housing<\/b><br>Year: 2000<br>Per capita: $0","<b>Planning & Housing<\/b><br>Year: 2001<br>Per capita: $0","<b>Planning & Housing<\/b><br>Year: 2002<br>Per capita: $0","<b>Planning & Housing<\/b><br>Year: 2003<br>Per capita: $11","<b>Planning & Housing<\/b><br>Year: 2004<br>Per capita: $11","<b>Planning & Housing<\/b><br>Year: 2005<br>Per capita: $11","<b>Planning & Housing<\/b><br>Year: 2006<br>Per capita: $11","<b>Planning & Housing<\/b><br>Year: 2007<br>Per capita: $19","<b>Planning & Housing<\/b><br>Year: 2008<br>Per capita: $18","<b>Planning & Housing<\/b><br>Year: 2009<br>Per capita: $15","<b>Planning & Housing<\/b><br>Year: 2010<br>Per capita: $14","<b>Planning & Housing<\/b><br>Year: 2011<br>Per capita: $10","<b>Planning & Housing<\/b><br>Year: 2012<br>Per capita: $7","<b>Planning & Housing<\/b><br>Year: 2013<br>Per capita: $9","<b>Planning & Housing<\/b><br>Year: 2014<br>Per capita: $11","<b>Planning & Housing<\/b><br>Year: 2015<br>Per capita: $13","<b>Planning & Housing<\/b><br>Year: 2016<br>Per capita: $14","<b>Planning & Housing<\/b><br>Year: 2017<br>Per capita: $18","<b>Planning & Housing<\/b><br>Year: 2018<br>Per capita: $20","<b>Planning & Housing<\/b><br>Year: 2019<br>Per capita: $21","<b>Planning & Housing<\/b><br>Year: 2020<br>Per capita: $41","<b>Planning & Housing<\/b><br>Year: 2021<br>Per capita: $0","<b>Planning & Housing<\/b><br>Year: 2022<br>Per capita: $0","<b>Planning & Housing<\/b><br>Year: 2023<br>Per capita: $51","<b>Planning & Housing<\/b><br>Year: 2024<br>Per capita: $47"],"hoverinfo":["text","text","text","text","text","text","text","text","text","text","text","text","text","text","text","text","text","text","text","text","text","text","text","text","text"],"line":{"color":"#534ab7","width":2.2000000000000002},"marker":{"color":"#534ab7","size":5,"line":{"color":"rgba(140,86,75,1)"}},"legendgroup":"Planning & Housing","error_y":{"color":"rgba(140,86,75,1)"},"error_x":{"color":"rgba(140,86,75,1)"},"xaxis":"x","yaxis":"y","frame":null},{"x":[2000,2001,2002,2003,2004,2005,2006,2007,2008,2009,2010,2011,2012,2013,2014,2015,2016,2017,2018,2019,2020,2021,2022,2023,2024],"y":[0,0,0,27.25514330724274,25.704617400745004,28.94833373386075,28.467555156555598,27.740144619646525,28.638832745745635,28.031366404934989,28.94350072309085,29.740748757998805,27.147161678534751,27.663116556672843,26.780662112608439,28.352400024112718,32.730361390997665,32.526614397698182,34.604078066865043,37.43325900654019,38.801195970853357,0,0,43.962144589473112,44.996275034209638],"type":"scatter","mode":"lines+markers","name":"Library","text":["<b>Library<\/b><br>Year: 2000<br>Per capita: $0","<b>Library<\/b><br>Year: 2001<br>Per capita: $0","<b>Library<\/b><br>Year: 2002<br>Per capita: $0","<b>Library<\/b><br>Year: 2003<br>Per capita: $27","<b>Library<\/b><br>Year: 2004<br>Per capita: $26","<b>Library<\/b><br>Year: 2005<br>Per capita: $29","<b>Library<\/b><br>Year: 2006<br>Per capita: $28","<b>Library<\/b><br>Year: 2007<br>Per capita: $28","<b>Library<\/b><br>Year: 2008<br>Per capita: $29","<b>Library<\/b><br>Year: 2009<br>Per capita: $28","<b>Library<\/b><br>Year: 2010<br>Per capita: $29","<b>Library<\/b><br>Year: 2011<br>Per capita: $30","<b>Library<\/b><br>Year: 2012<br>Per capita: $27","<b>Library<\/b><br>Year: 2013<br>Per capita: $28","<b>Library<\/b><br>Year: 2014<br>Per capita: $27","<b>Library<\/b><br>Year: 2015<br>Per capita: $28","<b>Library<\/b><br>Year: 2016<br>Per capita: $33","<b>Library<\/b><br>Year: 2017<br>Per capita: $33","<b>Library<\/b><br>Year: 2018<br>Per capita: $35","<b>Library<\/b><br>Year: 2019<br>Per capita: $37","<b>Library<\/b><br>Year: 2020<br>Per capita: $39","<b>Library<\/b><br>Year: 2021<br>Per capita: $0","<b>Library<\/b><br>Year: 2022<br>Per capita: $0","<b>Library<\/b><br>Year: 2023<br>Per capita: $44","<b>Library<\/b><br>Year: 2024<br>Per capita: $45"],"hoverinfo":["text","text","text","text","text","text","text","text","text","text","text","text","text","text","text","text","text","text","text","text","text","text","text","text","text"],"line":{"color":"#3b6d11","width":2.2000000000000002},"marker":{"color":"#3b6d11","size":5,"line":{"color":"rgba(227,119,194,1)"}},"legendgroup":"Library","error_y":{"color":"rgba(227,119,194,1)"},"error_x":{"color":"rgba(227,119,194,1)"},"xaxis":"x","yaxis":"y","frame":null}],"highlight":{"on":"plotly_click","persistent":false,"dynamic":false,"selectize":false,"opacityDim":0.20000000000000001,"selected":{"opacity":1},"debounce":0},"shinyEvents":["plotly_hover","plotly_click","plotly_selected","plotly_relayout","plotly_brushed","plotly_brushing","plotly_clickannotation","plotly_doubleclick","plotly_deselect","plotly_afterplot","plotly_sunburstclick"],"base_url":"https://plot.ly"},"evals":[],"jsHooks":[]}</script>
+<script type="application/htmlwidget-sizing" data-for="htmlwidget-065df483d957e599c200">{"viewer":{"width":"100%","height":400,"padding":0,"fill":true},"browser":{"width":"100%","height":400,"padding":0,"fill":true}}</script>
 </body>
 </html>